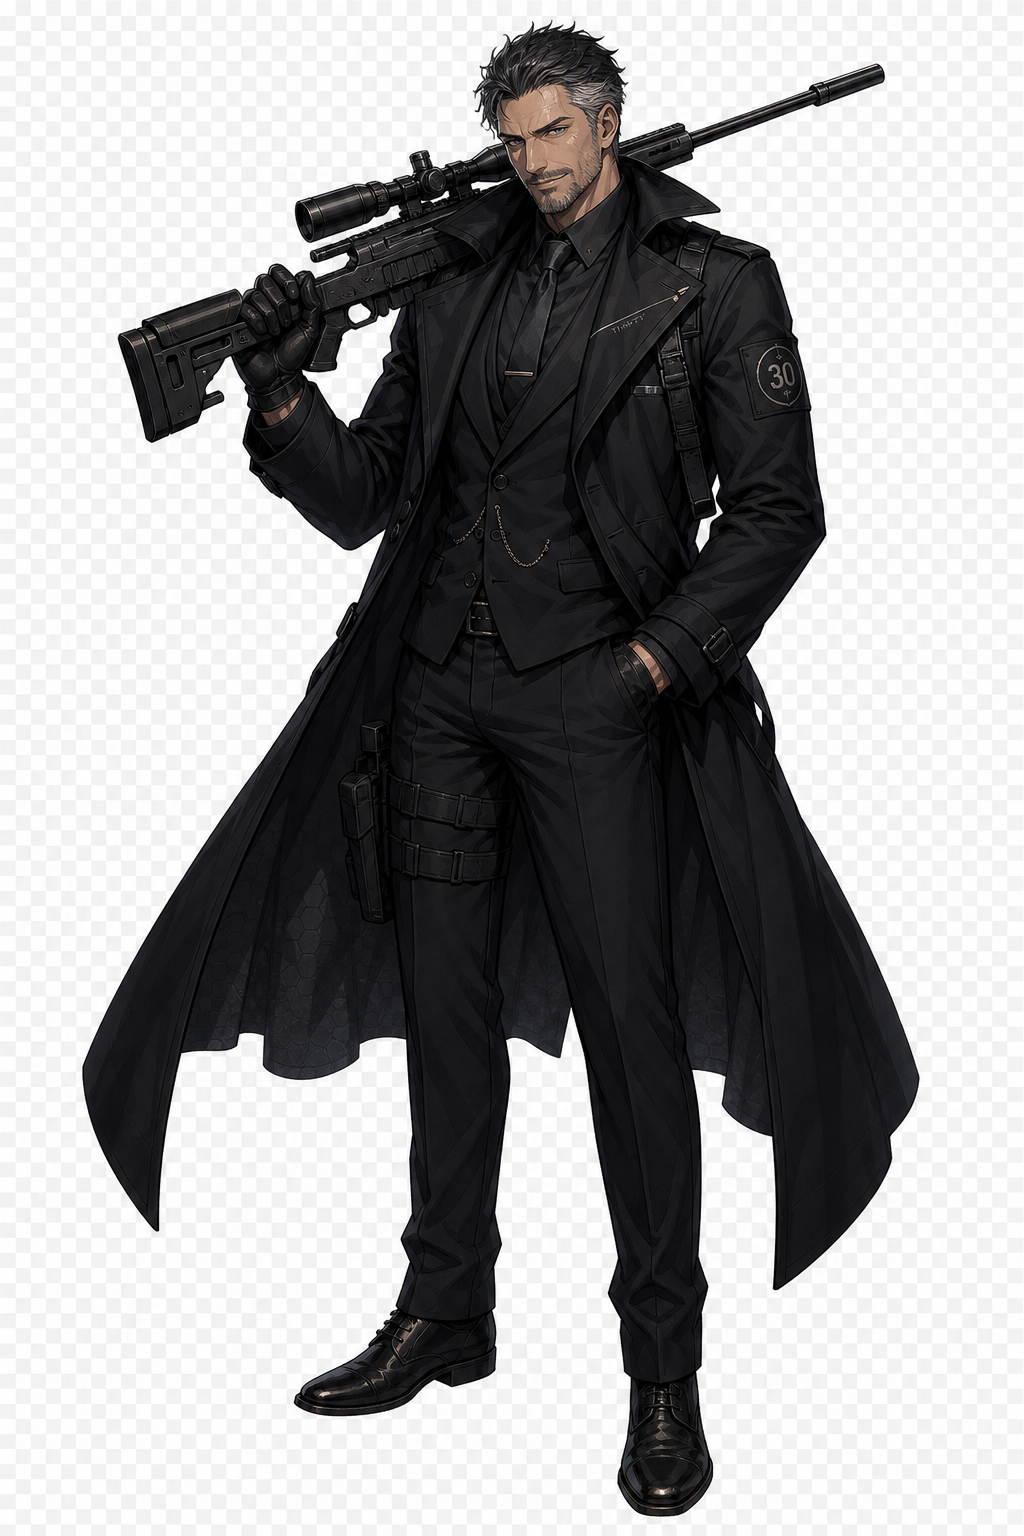
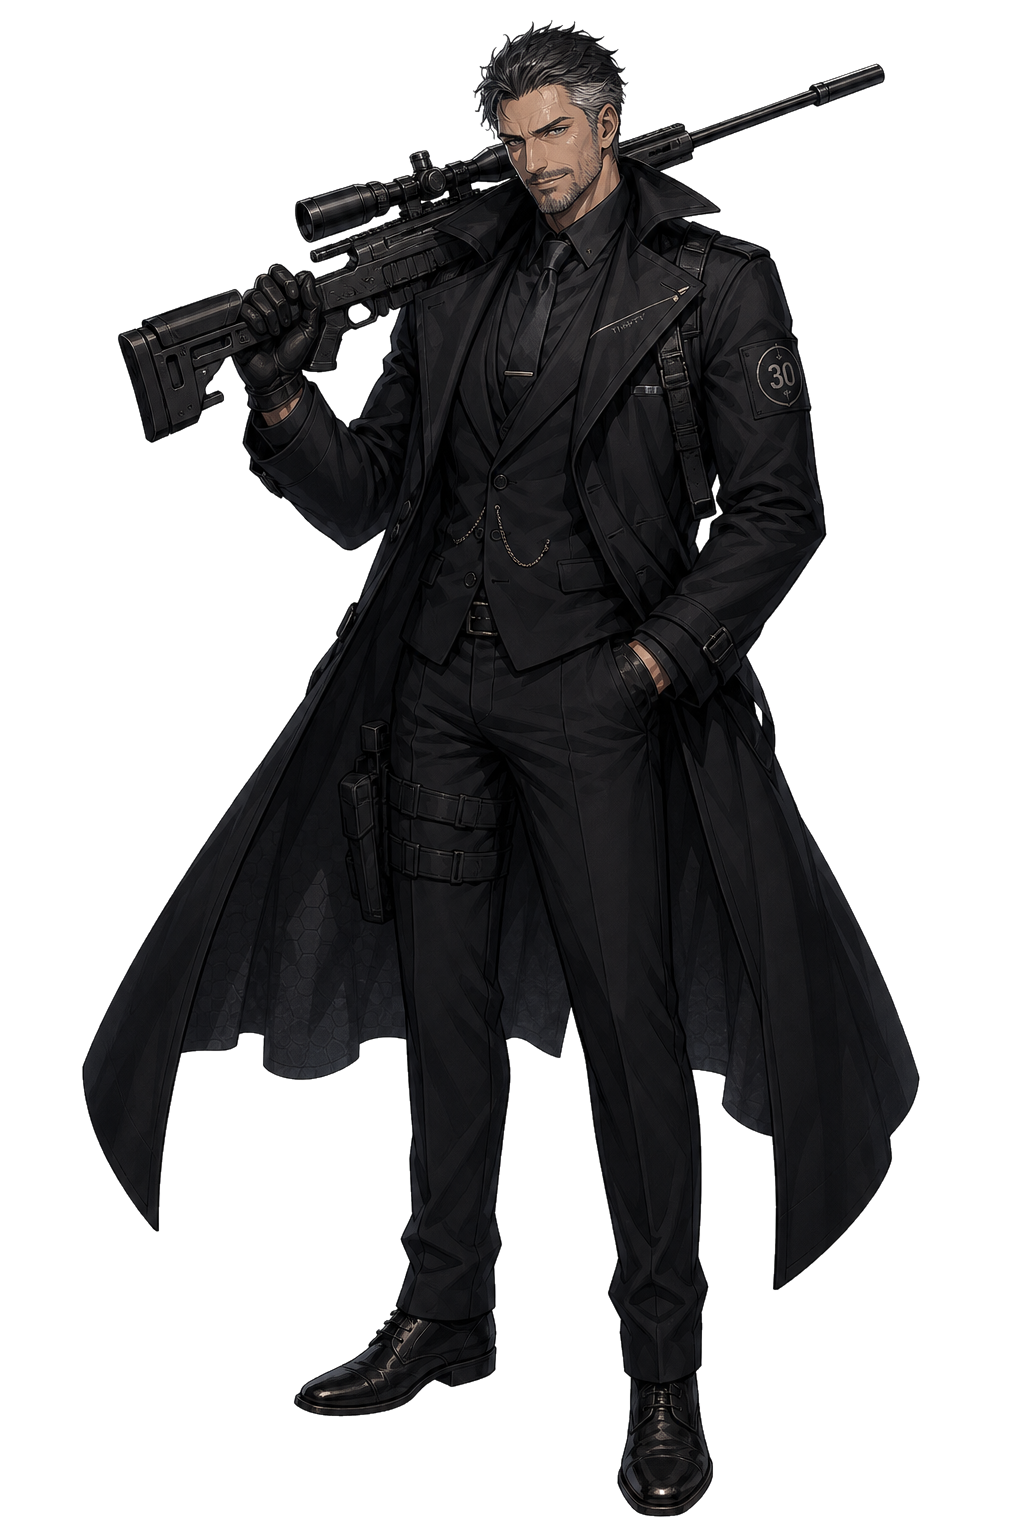
Key out the remaining flattened backgrounds
An audit of every portrait, token and board marker found three more
images saved as RGB with the transparency checkerboard flattened in,
same as Hitodemaso: Thirty's art (used for both his portrait and his
token) and the stage 9 parallel-world marker, which the sprite material
composites with ordinary alpha blending and so drew as a white box on
the board.

Thirty's token was also the full 1024x1536 portrait, but board pieces
are drawn on a square 1.6x1.6 sprite, so he was being squashed. Crop to
his silhouette, centre that on a square canvas and hand back 256px to
match the other tokens — 1.6MB down to 47KB.

Two warp markers (wa-pu1, wa-pu2) are opaque too, but over black rather
than white, so they are left alone pending a decision: keying those
means deriving alpha from luminance, which changes how the glow reads.

diff --git a/public/sw.js b/public/sw.js
@@ -1,4 +1,4 @@
-const CACHE_NAME = 'chinuquest2-v116';
+const CACHE_NAME = 'chinuquest2-v117';
 const APP_SHELL = ['./', './manifest.webmanifest', './icons/danballman-icon-192.png', './icons/danballman-icon-512.png'];
 
 self.addEventListener('install', (event) => {
